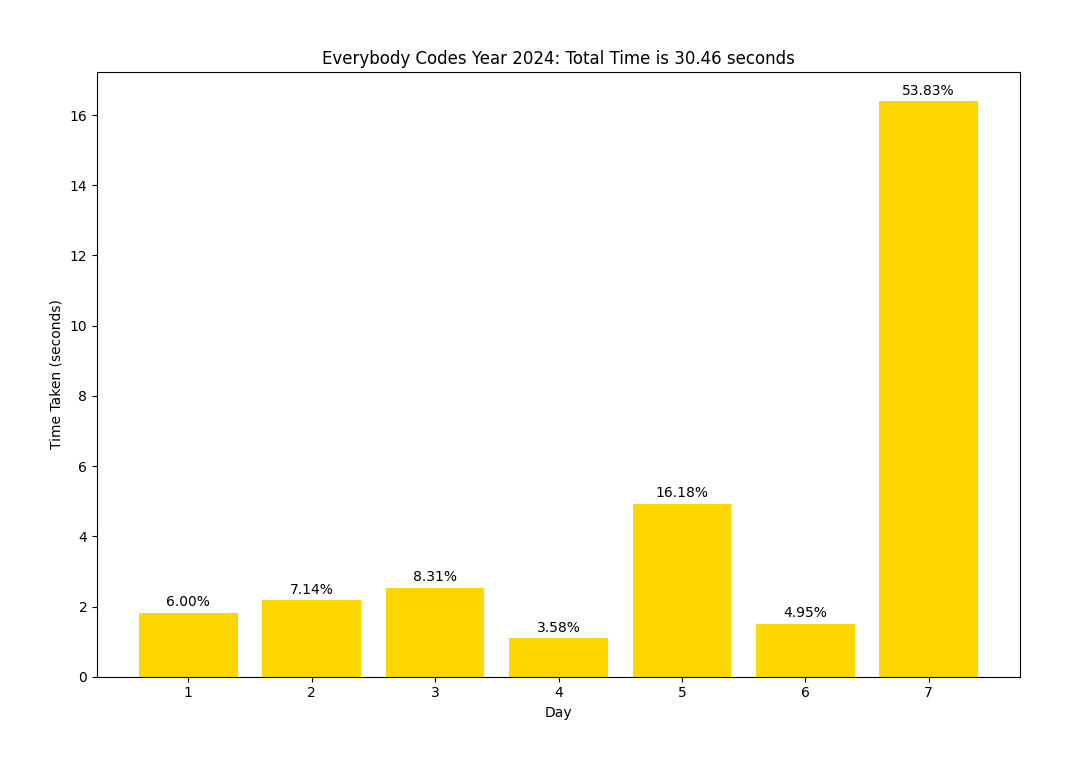
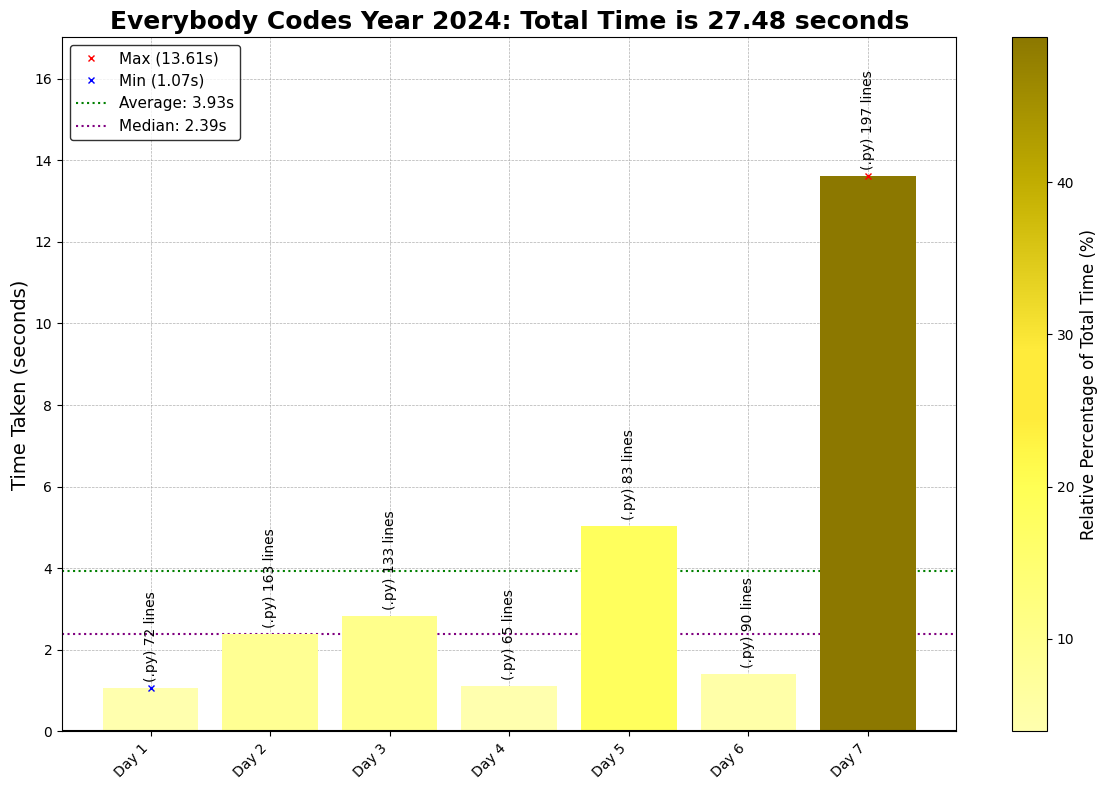
Full Run of all Days

diff --git a/2024/Run_2024.py b/2024/Run_2024.py
@@ -6,7 +6,20 @@
 
 #!/usr/bin/env python3
 import os, subprocess, glob, time, sys
+import numpy as np
 import matplotlib.pyplot as plt
+import matplotlib.colors as mcolors
+from matplotlib.cm import ScalarMappable
+
+def get_file_line_count(file_path):
+    """Get the number of lines in a script file."""
+    try:
+        with open(file_path, 'r') as file:
+            lines = file.readlines()
+        return len(lines)
+    except Exception as e:
+        print(f"Error reading {file_path}: {e}")
+        return 0
 
 def run_script(file_path):
     """Run a script based on its file extension and time its execution."""
@@ -14,8 +27,8 @@ def run_script(file_path):
     
     try:
         # Ignore .txt files (such as input files) and .png images
-        if extension == '.txt' or extension == '.png':
-            return
+        if extension == '.txt' or extension == '.png' or extension == '.exe':
+            return None  # Skip these files
         
         # Print the file name (not the full path) before running
         file_name = os.path.basename(file_path)
@@ -42,8 +55,15 @@ def run_script(file_path):
         elapsed_time = time.time() - start_time
         print(f"Finished running {file_name} in {elapsed_time:.2f} seconds.")
         
+        # Get the file extension and line count
+        extension = os.path.splitext(file_path)[1]
+        line_count = get_file_line_count(file_path)
+        
+        return extension, line_count, elapsed_time
+        
     except subprocess.CalledProcessError as e:
         print(f"Failed to execute {file_path}: {e}")
+        return None
 
 def parse_days_input(days_input):
     """Parse the input string for days (e.g., '1,2,3' or '1-5')."""
@@ -69,7 +89,19 @@ def parse_days_input(days_input):
 
     return days_to_run
 
-def main(Year):
+def generate_gradient_around_color(center_color, num_steps=10):
+    # Convert the center color from hex to RGB
+    center_rgb = mcolors.hex2color(center_color)
+    
+    # Create lighter and darker versions of the color by modifying the brightness
+    lighter_colors = [tuple(min(1, c + i * 0.05) for c in center_rgb) for i in range(num_steps)]
+    darker_colors = [tuple(max(0, c - i * 0.05) for c in center_rgb) for i in range(num_steps)]
+    
+    # Combine them to form a full gradient (darker -> center -> lighter)
+    full_gradient = darker_colors[::-1] + [center_rgb] + lighter_colors
+    return full_gradient[::-1]
+
+def main(challenge, Year, center_color="#4CAF50"):  # Now you only need to specify the center color
     # Record the start time of the entire process
     total_start_time = time.time()
 
@@ -85,7 +117,6 @@ def main(Year):
 
     # Define the base directory to the Year folder specifically
     base_dir = os.path.abspath(os.path.join(os.getcwd(), f"{Year}"))
-    # os.path.join(os.path.dirname(os.path.abspath(__file__)), D7_file)
     if not os.path.isdir(base_dir):
         print(f"Directory '{base_dir}' does not exist.")
         return
@@ -93,13 +124,15 @@ def main(Year):
     # Dictionary to track time for each day
     times_taken = {}
 
+    # Dictionary to track the file extensions, line counts, and times
+    file_info = {}
+
     # Traverse only the 'Day' subdirectories within specific Year
     for day_dir in os.listdir(base_dir):
         day_path = os.path.join(base_dir, day_dir)
         
         # Check if the directory name is a digit (Day folder)
         if os.path.isdir(day_path) and day_dir.isdigit():
-            # Add zero padding to the Day part of the filename
             padded_day_dir = day_dir.zfill(2)  # Pads day numbers to two digits (e.g., '01', '02')
             
             # Run the script if this day is in the specified range or list
@@ -111,14 +144,17 @@ def main(Year):
                 # Find all Python, Ruby, and C files in the padded day directory
                 for script_file in glob.glob(f"{day_path}/*"):
                     if padded_day_dir in script_file:  # Only run files that match the padded day
-                        run_script(script_file)
+                        result = run_script(script_file)
+                        if result:
+                            extension, line_count, elapsed_time = result
+                            file_info[script_file] = (extension, line_count, elapsed_time)
 
                 # Calculate the time taken for this day and store it
                 day_elapsed_time = time.time() - day_start_time
                 times_taken[day_number] = day_elapsed_time
 
     # Calculate total elapsed time for the entire process
-    total_elapsed_time = time.time() - total_start_time
+    total_elapsed_time = sum(times_taken.values())  # Sum the times for each day
     print(f"\nTotal time to execute specified scripts: {total_elapsed_time:.2f} seconds.")
 
     # Create a graph to visualize the time taken for each day
@@ -129,34 +165,107 @@ def main(Year):
         # Calculate percentage for each day's time
         percentages = [(time / total_elapsed_time) * 100 for time in times]
 
-        # Plot the time taken for each day
-        plt.figure(figsize=(10, 7))
-        bars = plt.bar(days, times, color='#FFD700')
+        # Calculate additional statistics
+        average_time = np.mean(times)
+        median_time = np.median(times)
+        std_dev_time = np.std(times)
+        max_time = max(times)
+        min_time = min(times)
 
-        # Add percentage labels on top of each bar
-        # Add percentage labels on top of each bar
-        for bar, percentage in zip(bars, percentages):
+        # Generate the gradient based on the specified center color
+        color_gradient = generate_gradient_around_color(center_color)
+        
+        # Create a colormap from the generated gradient
+        cmap = mcolors.LinearSegmentedColormap.from_list("custom_gradient", color_gradient)
+        
+        # Normalize and apply color gradient to bars
+        norm = mcolors.Normalize(vmin=min(percentages), vmax=max(percentages))
+        bar_colors = [cmap(norm(p)) for p in percentages]
+
+        # Plot the time taken for each day with gradient colors
+        fig, ax = plt.subplots(figsize=(12, 8))
+        bars = ax.bar(days, times, color=bar_colors, zorder=3)
+
+        # After plotting the bars, calculate the current maximum y-value (max_time)
+        max_y_value = max(times)  # Or you can use the highest value from your data if needed
+
+        # Set the upper limit of the y-axis to be 25% greater than the current maximum
+        ax.set_ylim(0, max_y_value * 1.25)  # Extends the y-axis by 25%
+
+        # Add percentage labels on top of each bar (adjusted to avoid overlap)
+        for i, (bar, percentage) in enumerate(zip(bars, percentages)):
             height = bar.get_height()
-            plt.text(bar.get_x() + bar.get_width() / 2, height + 0.1, 
-                    f'{percentage:.2f}%', ha='center', va='bottom', fontsize=10)
+            # Label position dynamically to avoid overlap with min/max labels
+            label_position = height + 0.15 # if height < max_time * 0.75 else height - 0.15
+            file_path = list(file_info.keys())[i]
+            extension, line_count, _ = file_info[file_path]
+            ax.text(bar.get_x() + bar.get_width() / 2, label_position,
+                    f"({extension}) {line_count} lines", ha='center', va='bottom', fontsize=10, color='black', rotation=90)
 
-        # Set plot labels and title
-        plt.xlabel('Day')
-        plt.ylabel('Time Taken (seconds)')
-        plt.title(f'Everybody Codes Year {Year}: Total Time is {total_elapsed_time:.2f} seconds')
-        plt.xticks(days)
+        # Highlight the maximum and minimum time days
+        max_day = days[times.index(max_time)]
+        min_day = days[times.index(min_time)]
+        # Replace the text labels with blank points (markers) for Max and Min
+        ax.plot(max_day, max_time, 'rx', label=f"Max ({max_time:.2f}s)", markersize=5, zorder=5)
+        ax.plot(min_day, min_time, 'bx', label=f"Min ({min_time:.2f}s)", markersize=5, zorder=5)
+
+        # Plot average, median, and standard deviation lines
+        ax.axhline(0, color='#000000', linestyle='-',zorder=5)  # Zero base (#000000)
+        ax.axhline(average_time, color='#008000', linestyle=':', label=f'Average: {average_time:.2f}s')  # Green (#008000)
+        ax.axhline(median_time, color='#800080', linestyle=':', label=f'Median: {median_time:.2f}s')  # Purple (#800080)
+        # ax.axhline(average_time + std_dev_time, color='#FFA500', linestyle=':', label=f'1 Std Dev: {average_time + std_dev_time:.2f}s')  # Orange (#FFA500)
+        # ax.axhline(average_time - std_dev_time, color='#FFA500', linestyle=':')  # Orange (#FFA500)
+
+        # Customize plot labels and title
+        ax.set_xticks(days)
+        ax.set_xticklabels([f'Day {day}' for day in days], rotation=45, ha='right')
+        ax.set_ylabel("Time Taken (seconds)", fontsize=14)
+        ax.set_title(f'{challenge} Year {Year}: Total Time is {total_elapsed_time:.2f} seconds',fontsize=18, fontweight='bold')
+
+        # Add grid, legend, and colorbar
+        ax.grid(True, which='both', linestyle='--', linewidth=0.5, zorder=2)
+        ax.legend(loc='upper left', bbox_to_anchor=(0, 1), fontsize=11, frameon=True, facecolor='white', edgecolor='black')
         plt.tight_layout()
+
+        # Add colorbar to explain the color gradient
+        cbar = plt.colorbar(ScalarMappable(norm=norm, cmap=cmap), ax=ax)
+        cbar.set_label('Relative Percentage of Total Time (%)', fontsize=12)
 
         # Define the path for saving the plot
         script_dir = os.path.dirname(os.path.abspath(__file__))
         plot_path = os.path.join(script_dir, f"{Year}_RunTime_plot.png")
 
         # Save the plot to the specified path before displaying
-        plt.savefig(plot_path, bbox_inches='tight', pad_inches=0.5)
+        plt.savefig(plot_path, bbox_inches='tight')
 
         # Display the plot
         plt.show()
 
+    # Total process elapsed time
+    total_process_time = time.time() - total_start_time
+    print(f"Total script execution time: {total_process_time:.2f} seconds.")
+
+# Red shades
+red = '#D32F2F'           # Dark Red
+bright_red = "#FF2010"    # Bright Red
+
+# Green shades
+green = '#388E3C'         # Dark Green
+lime_green = '#32CD32'    # Lime Green
+
+# Yellow shades
+yellow = '#FFEB3B'        # Yellow
+neon_yellow = "#FFFF00"   # Neon Yellow
+
+# Blue shades
+dark_blue = '#303F9F'     # Dark Blue
+light_blue = '#03A9F4'    # Light Blue
+
+# Neutral colors
+black = '#212121'         # Black
+
+
 if __name__ == "__main__":
     Year = 2024
-    main(Year)
+    challenge = 'Everybody Codes'
+    main(challenge, Year, yellow)

diff --git a/TemplateCode.py b/TemplateCode.py
@@ -7,7 +7,7 @@ import os
 import sys
 
 # Default values for the arguments
-DEFAULT_DAY = 7
+DEFAULT_DAY = 8
 DEFAULT_YEAR = 2024
 DEFAULT_YEAR_SOLVE = 2024
 DEFAULT_AUTHOR = 'abbasmoosajee07'
@@ -49,7 +49,8 @@ python_file_path = os.path.join(base_dir, f'{Year}Day{padded_day}.py')
 # Check if the Python script file already exists
 if not os.path.exists(python_file_path):
     # Define the content of the Python script with dynamic day and year
-    python_script_content = f'''# Everybody Codes - Day {Day}, Year {Year}
+    python_script_content = f'''
+# Everybody Codes - Day {Day}, Year {Year}
 # Solved in {Year_Solve}
 # Puzzle Link: https://everybody.codes/event/{Year}/quests/{Day}
 # Solution by: [{Author}]

diff --git a/2024/07/2024Day07.py b/2024/07/2024Day07.py
@@ -2,7 +2,7 @@
 # Solved in 2024
 # Puzzle Link: https://everybody.codes/event/2024/quests/7
 # Solution by: [abbasmoosajee07]
-# Brief: [Code/Problem Description]
+# Brief: [Race Tracks and Fights]
 
 #!/usr/bin/env python3
 
